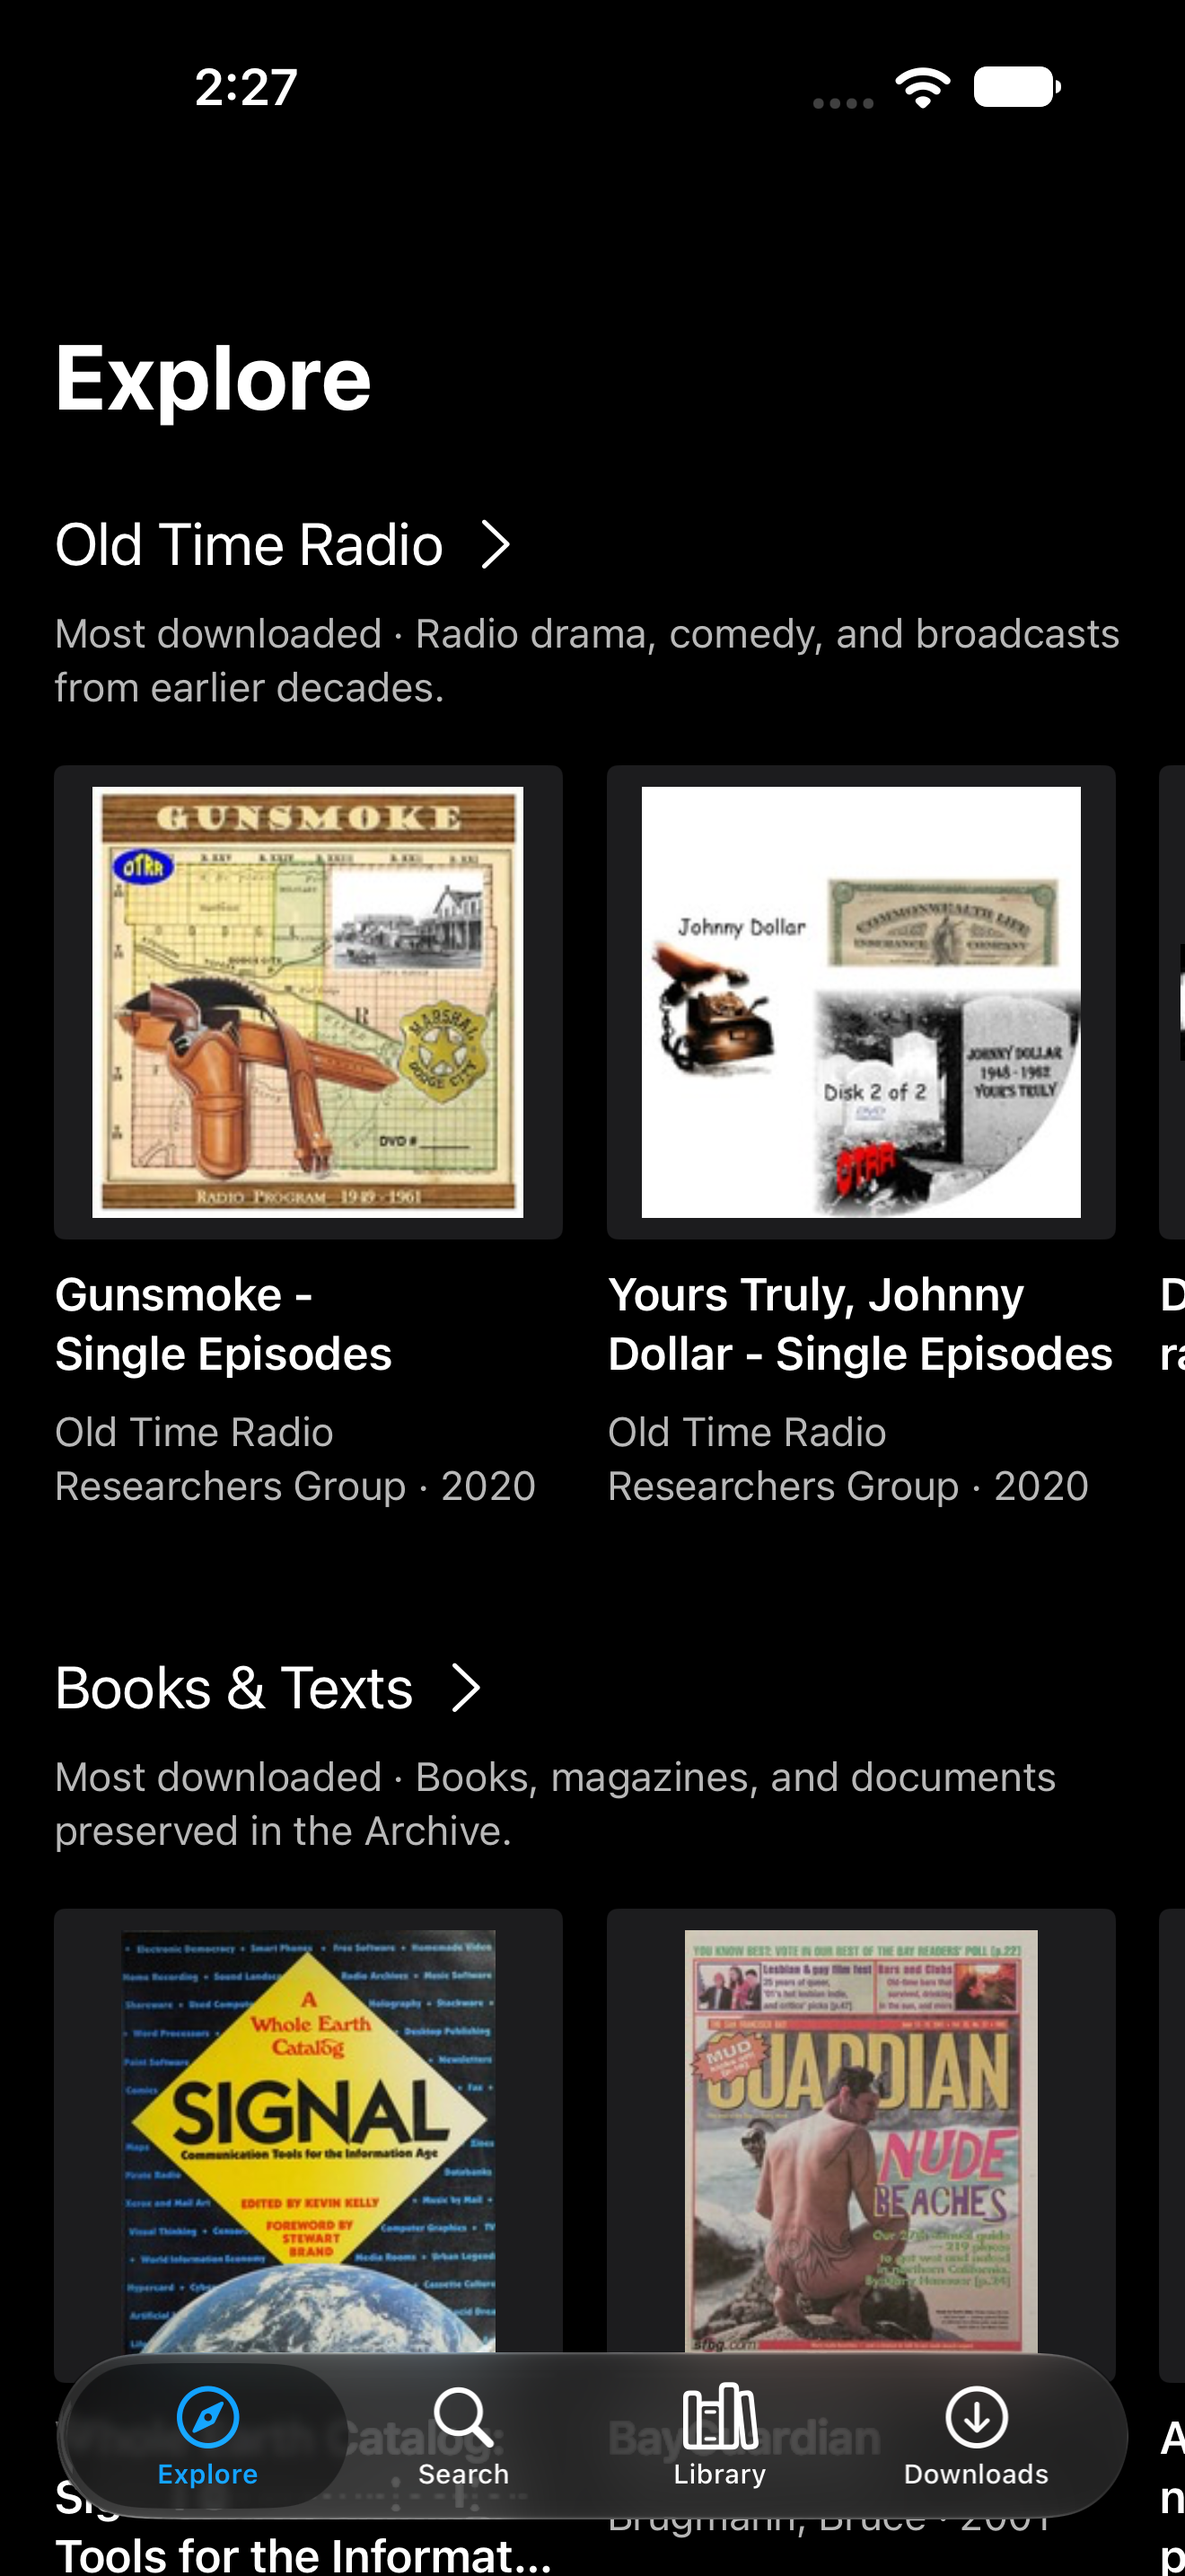
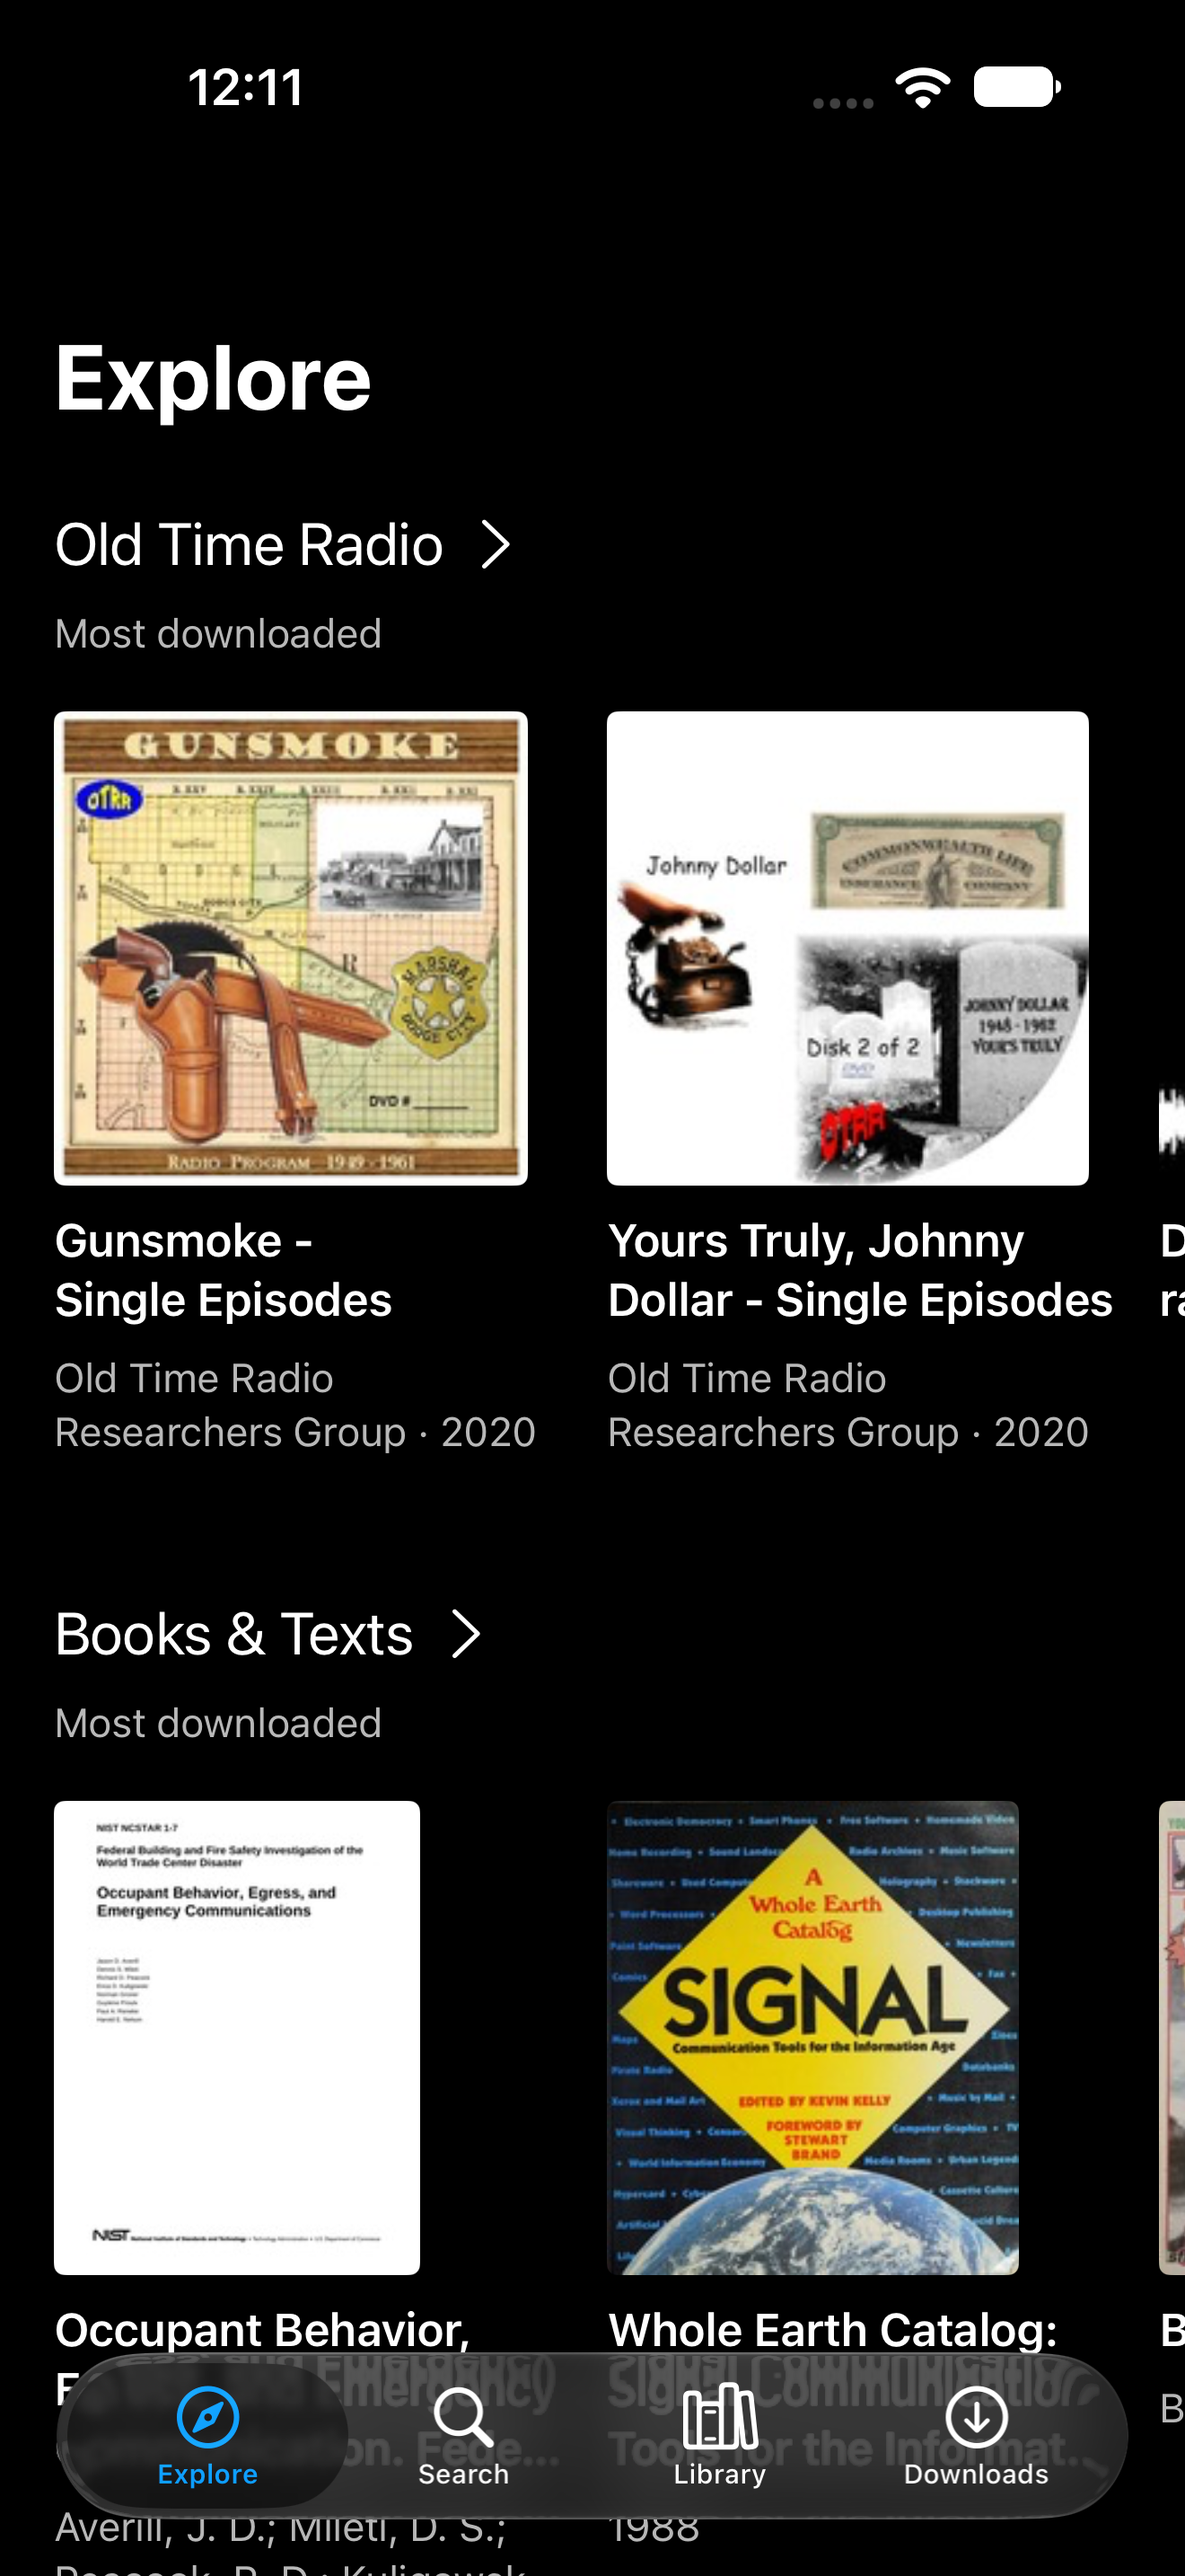
Rewrite the README for people arriving from GitHub
Docs: the README was five dense paragraphs of implementation detail and
release-gate caveats. It now opens with what the app is and two current
screenshots, says what each part does, how to build and test, and lists
the known gaps plainly. The Explore screenshot is refreshed to show the
cardless shelves. ComponentDecisions.md loses its last references to the
old Archive name.

Verified: unslop slopcheck on README.md reports no strong tells; every
behaviour claim was checked against the code or the existing docs, and
AirPlay/Picture in Picture moved to known gaps because neither has been
checked on a device.

diff --git a/README.md b/README.md
@@ -1,32 +1,55 @@
 # Funston
 
-A native iPhone and iPad client for exploring Internet Archive artifacts. Browse live collections through artwork shelves, search across media types, inspect provenance and files, save artifacts, and download supported media for offline use.
+An iPhone and iPad app for Internet Archive: old radio, live music, films, books and scanned magazines, in a native UIKit shell that works with VoiceOver.
 
-Audio publishes album artwork and transport metadata to the system Now Playing surface, including the Lock Screen. Artwork is loaded asynchronously through the bounded image cache and retained across tracks from the same artifact.
+<p>
+<img src="Docs/ReviewScreenshots/explore-dark.png" width="260" alt="Explore: shelves of Old Time Radio and Books & Texts, most downloaded first">
+<img src="Docs/ReviewScreenshots/player-dark.png" width="260" alt="The audio player showing a Gunsmoke episode with artwork, scrubber and transport controls">
+</p>
 
-UIKit owns navigation, adaptive tab/split layouts and reusable collections; SwiftUI composes artifact headers and the full audio player. A native interactive mini-player keeps listening available while browsing. Supported PDFs open in a PDFKit reader with page restoration and text search; scanned pages also have an on-device recognized-text view that defaults to Automatic and prefers Apple Live Text for Internet Archive derivatives. Readers are not prompted when opening a page, but Reading Options exposes an extensible engine list and remembers a choice until it is changed. Compatible films open in AVKit. EPUB remains future work.
+## What it does
 
-The [PDF scrolling investigation and polish report](Docs/PDFScrollingPolish.md) records physical-device measurements and rejected rendering experiments. Fast-scroll blank pages in heavy scanned PDFs remain an open issue; the experimental raster cache is test-only.
+Explore shows the most downloaded items from a few collections, and Search covers all of Internet Archive, filtered by media type. On iPad the app becomes a three-column split view.
 
-The video viewer streams public MP4/M4V/MOV files or uses a leased local download, restores per-file position, and offers retry without discarding progress. An unmodified full-screen AVKit player supplies auto-hiding transport, speed, AirPlay, embedded media options, and supported Picture in Picture. Its native Close action ends the video; the audio queue remains paused and available afterward. The image uses aspect-fit rather than cropping to fill the phone. Downloads includes a dedicated Watch Downloaded Film action that never silently switches to streaming. Device PiP/AirPlay and manual accessibility verification remain release gates.
+Multi-track items play as a queue. A mini-player stays open while you browse, the Lock Screen shows the item's artwork, and each recording remembers where you stopped.
 
-An experimental original-file path now opens MKV through the MIT-only [ArchivePlayerCore](https://github.com/CamdenBopp/ArchivePlayerCore): bounded HTTP Range reads, a Swift Matroska demuxer, and Apple's sample-buffer video/audio renderers. The demuxer understands WebM's container structure, but WebM video codecs have not passed a device decode gate and `.webm` is not yet offered as a Watch action. The existing AVKit path remains preferred for MP4/M4V/MOV. The MKV controls expose audio-track names/languages/roles, captions when a supported embedded text track exists, speed, seek, and VoiceOver actions; unsupported codecs/tracks are identified rather than silently discarded. This path is not AVKit, has no Picture in Picture, and has not passed physical-device or manual VoiceOver validation. Separate strict MPEG-TS and DVD/VOB access-unit adapters have passed early Mac renderer gates, but are not in the app and do not imply physical-iPhone compatibility; the raw demuxers alone are not playable. The player lives in its own package, [ArchivePlayerCore](https://github.com/CamdenBopp/ArchivePlayerCore), which records the measured device codec gates, playback findings and conformance results.
+PDFs open in PDFKit with search and a remembered page. For scanned books, Page Text recognizes the page on the device (Live Text, then Vision) instead of trusting Internet Archive's OCR, and Reading options lets you pick the engine yourself.
 
-The audio presentation uses MIT-licensed LNPopupController 4.5.12, vendored with a documented manifest-only build fix. Its MIT-licensed LNSystemMarqueeLabel dependency is locked to 0.1.2. Playback, artwork caching, downloads and persistence remain app-owned. See [component decisions and licensing](Docs/ComponentDecisions.md) and [vendored provenance](Vendor/LNPopupController/PROVENANCE.md).
+MP4, M4V and MOV films play in the system player. MKV originals play through [ArchivePlayerCore](https://github.com/CamdenBopp/ArchivePlayerCore), with audio-track and caption menus. That path is experimental.
 
-Generate the Xcode project and build:
+Library holds what you save and Downloads holds files for offline use. They're independent: removing a download doesn't unsave the item, and unsaving doesn't delete the file.
+
+## Build
+
+Requires Xcode 27 and [XcodeGen](https://github.com/yonaskolb/XcodeGen). The app targets iOS 18.
 
 ```sh
 xcodegen generate
 xcodebuild -project Funston.xcodeproj -scheme Funston -destination 'generic/platform=iOS Simulator' build
 ```
 
-Requires Xcode 27 and XcodeGen; the app supports iOS 18 and later. Keep the workspace's `Package.resolved` to reproduce the transitive dependency version. Regenerate the original geometric app icon with `swift Scripts/GenerateAppIcon.swift`.
+To run on a device, change `DEVELOPMENT_TEAM` and the `com.camden` bundle prefix in `project.yml` to your own. `Package.resolved` is committed; keep it to get the same dependency versions.
 
-Simulator downloads use an in-process URLSession because the tested simulator's background-transfer daemon failed before starting transfers. Physical-device builds retain background downloads. See [simulator download behavior and validation limits](Docs/SimulatorDownloads.md).
+Tests:
 
-The product and engineering contract, including acceptance gates that require physical-device validation, is in [ImplementationPlan.md](Docs/ImplementationPlan.md).
+```sh
+xcodebuild test -project Funston.xcodeproj -scheme Funston -destination 'platform=iOS Simulator,name=iPhone 17 Pro' -only-testing:FunstonTests
+```
+
+`FunstonUITests` drive the live app against archive.org and need a network connection.
+
+## Known gaps
+
+- Fast scrolling through heavy scanned PDFs can show blank pages for a moment. [PDFScrollingPolish.md](Docs/PDFScrollingPolish.md) has the measurements and the experiments that didn't work.
+- The MKV player hasn't been tested on a physical iPhone or under VoiceOver on a device. WebM, VOB and MPEG-TS aren't offered yet.
+- Background downloads only run on a device. The Simulator uses an in-process session because its background transfer daemon fails; see [SimulatorDownloads.md](Docs/SimulatorDownloads.md).
+- AirPlay and Picture in Picture for films come from the system player but haven't been checked on a device.
+- EPUB isn't supported.
+
+## How it's put together
+
+UIKit owns navigation, the tab and split layouts, and every list. SwiftUI draws the item header and the full-screen audio player. The mini-player is [LNPopupController](https://github.com/LeoNatan/LNPopupController) 4.5.12, vendored with a one-file build fix described in [its provenance note](Vendor/LNPopupController/PROVENANCE.md). Playback, downloads, artwork caching and the SQLite store are the app's own. [ComponentDecisions.md](Docs/ComponentDecisions.md) explains the choices, and [ImplementationPlan.md](Docs/ImplementationPlan.md) is the product contract.
 
 ## License
 
-Original project source is available under the [MIT License](LICENSE). Vendored dependencies retain their own copyright and license notices; see [ThirdPartyNotices.txt](Funston/Resources/ThirdPartyNotices.txt). Internet Archive media and artwork (including material visible in review screenshots) remain subject to their respective rights and are not relicensed by this repository.
+MIT; see [LICENSE](LICENSE). Vendored code keeps its own license ([ThirdPartyNotices.txt](Funston/Resources/ThirdPartyNotices.txt)). Media and artwork from Internet Archive, including what appears in these screenshots, belong to their rights holders and aren't covered by this license.

diff --git a/Docs/ComponentDecisions.md b/Docs/ComponentDecisions.md
@@ -4,15 +4,15 @@ Evaluated against primary repositories on September 27, 2026. This app targets i
 
 ## Player presentation: adopt LNPopupController
 
-[LNPopupController](https://github.com/LeoNatan/LNPopupController) supplies the presentation work we need: a native compact bar, interactive expansion and dismissal, artwork, accessibility and UIKit container integration. Keep Archive's AVPlayer engine, downloads, now-playing integration and bounded artwork pipeline. It is a UI component, not a replacement media engine.
+[LNPopupController](https://github.com/LeoNatan/LNPopupController) supplies the presentation work we need: a native compact bar, interactive expansion and dismissal, artwork, accessibility and UIKit container integration. Keep Funston's AVPlayer engine, downloads, now-playing integration and bounded artwork pipeline. It is a UI component, not a replacement media engine.
 
 Vendor [4.5.12](https://github.com/LeoNatan/LNPopupController/releases/tag/4.5.12), released September 19, 2026, as the local package `Vendor/LNPopupController`; do not track a branch. The exact [package manifest](https://github.com/LeoNatan/LNPopupController/blob/4.5.12/Package.swift) requires Swift tools 6.2 and iOS 13+, and offers static and dynamic products. We choose the static product. Its one package dependency is LNSystemMarqueeLabel. The resolved package file locks that dependency to 0.1.2. Both use MIT licenses, reproduced in the app's bundled `ThirdPartyNotices.txt`.
 
 The remote package failed to compile under local Xcode 27: dynamically enumerated private header paths were truncated to `troller/...` even after fresh build/package caches and canonical paths. The CLI manifest output was correct, so the precise upstream/toolchain cause remains unproven. The vendored manifest replaces that directory enumeration with eight explicit relative header paths. No runtime source was changed; recursive comparison against the tagged checkout matched. The vendored package then compiled successfully. This is a build-packaging fix, not a runtime fork. See `Vendor/LNPopupController/PROVENANCE.md` for revision and manifest checksums.
 
-`ArchivePlayerPresentation` adapts existing playback context/phase events and uses cancellable downsampled artwork loading. It adds no progress timer and does not subscribe every browse cell to playback progress. Explicit popup open/close callbacks own the existing visible progress consumer with an idempotent guard; a preloaded SwiftUI view cannot start progress updates. Marquee scrolling is disabled, full titles remain accessible, and initial presentation respects Reduce Motion. The library owns safe-area adjustments. A container change detaches and reinstalls the popup while preserving whether it was open; existing navigation history ownership remains intact.
+`FunstonPlayerPresentation` adapts existing playback context/phase events and uses cancellable downsampled artwork loading. It adds no progress timer and does not subscribe every browse cell to playback progress. Explicit popup open/close callbacks own the existing visible progress consumer with an idempotent guard; a preloaded SwiftUI view cannot start progress updates. Marquee scrolling is disabled, full titles remain accessible, and initial presentation respects Reduce Motion. The library owns safe-area adjustments. A container change detaches and reinstalls the popup while preserving whether it was open; existing navigation history ownership remains intact.
 
-The library does not design the full player: Archive still owns that SwiftUI view. Broad container behavior is documented by upstream; smoothness, VoiceOver, large Dynamic Type, Reduce Motion and live iPad resizing still need device validation. No numerical memory, startup or frame-rate claims have been measured. Upstream actively updates for current OS releases; that is evidence of maintenance, not a guarantee against UIKit changes.
+The library does not design the full player: Funston still owns that SwiftUI view. Broad container behavior is documented by upstream; smoothness, VoiceOver, large Dynamic Type, Reduce Motion and live iPad resizing still need device validation. No numerical memory, startup or frame-rate claims have been measured. Upstream actively updates for current OS releases; that is evidence of maintenance, not a guarantee against UIKit changes.
 
 ## Reading: Readium for EPUB, PDFKit for a focused PDF reader
 
